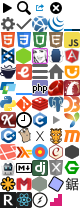
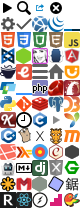
Add Bower documentation

Changed region(s): [[0.8, 0.9231, 1.0, 1.0]]

diff --git a/assets/stylesheets/global/_icons.scss b/assets/stylesheets/global/_icons.scss
@@ -76,3 +76,4 @@
 ._icon-react:before         { background-position: -1rem -12rem; }
 ._icon-socketio:before      { background-position: -2rem -12rem; }
 ._icon-modernizr:before     { background-position: -3rem -12rem; }
+._icon-bower:before         { background-position: -4rem -12rem; }

diff --git a/assets/stylesheets/application.css.scss b/assets/stylesheets/application.css.scss
@@ -29,6 +29,7 @@
         'components/mobile';
 
 @import 'pages/angular',
+        'pages/bower',
         'pages/c',
         'pages/chai',
         'pages/coffeescript',

diff --git a/assets/stylesheets/pages/_bower.scss b/assets/stylesheets/pages/_bower.scss
@@ -1,0 +1,7 @@
+._bower {
+  h2 { @extend %block-heading; }
+  h3 { @extend %block-label, %label-blue; }
+  h4 { @extend %block-label; }
+
+  code { @extend %label; }
+}

diff --git a/lib/docs/filters/bower/entries.rb b/lib/docs/filters/bower/entries.rb
@@ -1,0 +1,26 @@
+module Docs
+  class Bower
+    class EntriesFilter < Docs::EntriesFilter
+      ENTRIES_TYPE_BY_SLUG = {
+        'api'    => 'Commands',
+        'config' => '.bowerrc'
+      }
+
+      def get_name
+        at_css('h1').content
+      end
+
+      def get_type
+        'Guides'
+      end
+
+      def additional_entries
+        return [] unless type = ENTRIES_TYPE_BY_SLUG[slug]
+
+        css('#bowerrc-specification + ul a', '#commands + p + ul a').map do |node|
+          [node.content, node['href'].remove('#'), type]
+        end
+      end
+    end
+  end
+end

diff --git a/lib/docs/scrapers/bower.rb b/lib/docs/scrapers/bower.rb
@@ -1,0 +1,19 @@
+module Docs
+  class Bower < UrlScraper
+    self.name = 'Bower'
+    self.type = 'bower'
+    self.version = '1.3.12'
+    self.base_url = 'http://bower.io/docs/'
+    self.root_path = 'api'
+
+    html_filters.push 'bower/clean_html', 'bower/entries'
+
+    options[:trailing_slash] = false
+    options[:skip] = %w(tools about)
+
+    options[:attribution] = <<-HTML
+      &copy; 2014 Bower contributors<br>
+      Licensed under the Creative Commons Attribution License.
+    HTML
+  end
+end

diff --git a/lib/docs/filters/bower/clean_html.rb b/lib/docs/filters/bower/clean_html.rb
@@ -1,0 +1,21 @@
+module Docs
+  class Bower
+    class CleanHtmlFilter < Filter
+      def call
+        title = at_css('.page-title')
+        @doc = at_css('.main')
+        doc.child.before(title)
+
+        css('.site-footer').remove
+
+        css('.highlight').each do |node|
+          node.name = 'pre'
+          node['data-lang'] = node.at_css('[data-lang]')['data-lang']
+          node.content = node.content
+        end
+
+        doc
+      end
+    end
+  end
+end
